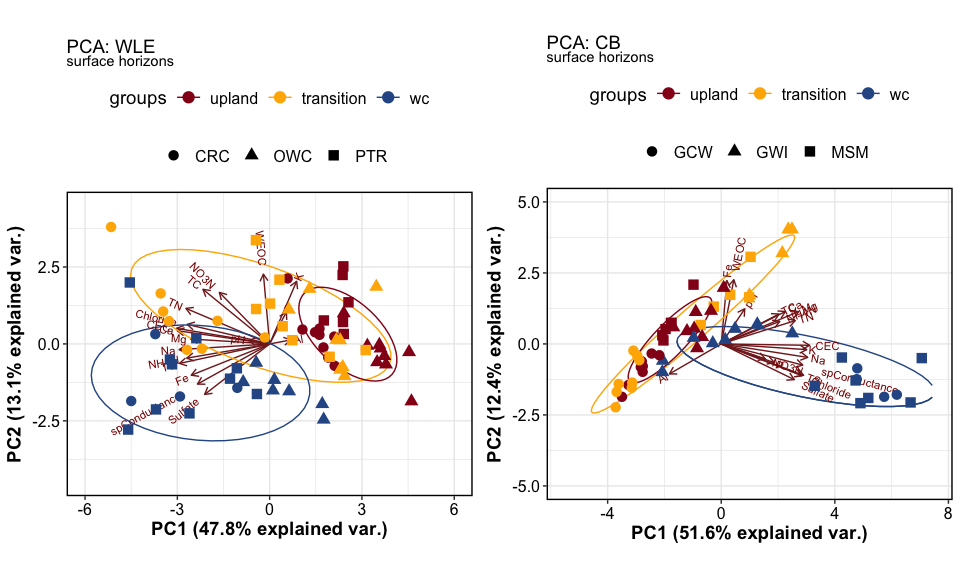
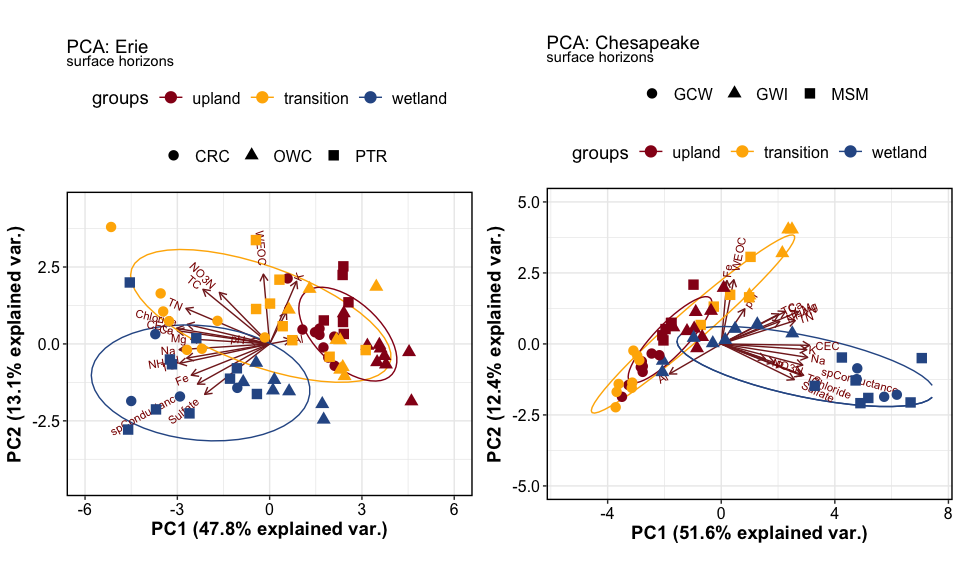
recode region and transect

diff --git a/3-reports/manuscript_figures.md b/3-reports/manuscript_figures.md
@@ -152,6 +152,8 @@ Click to Open
 
 ![](manuscript_figures_files/figure-gfm/v2-scaled_gg2_split-1.png)<!-- -->
 
+![](manuscript_figures_files/figure-gfm/v2-scaled_gg2_split-NEW-1.png)<!-- -->
+
 ### GWI only
 
 ![](manuscript_figures_files/figure-gfm/v2-scaled_gg2_gwi-1.png)<!-- -->
@@ -175,7 +177,7 @@ Click to Open
 Session Info
 </summary>
 
-Date run: 2024-11-11
+Date run: 2024-11-13
 
     ## R version 4.2.1 (2022-06-23)
     ## Platform: x86_64-apple-darwin17.0 (64-bit)
